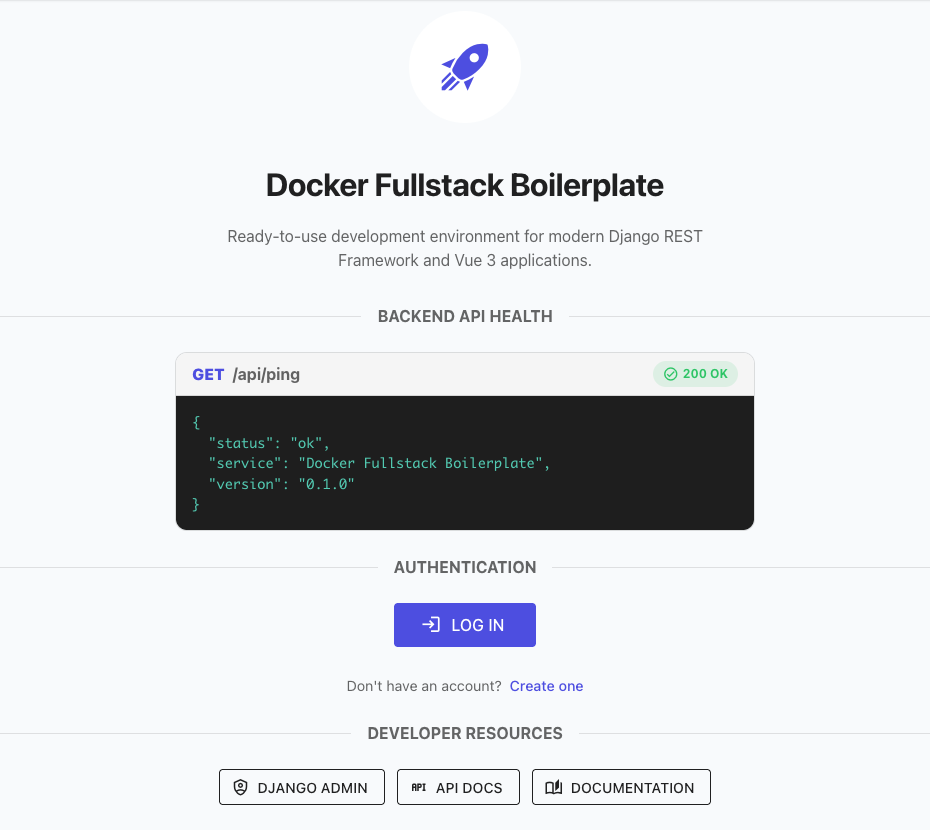
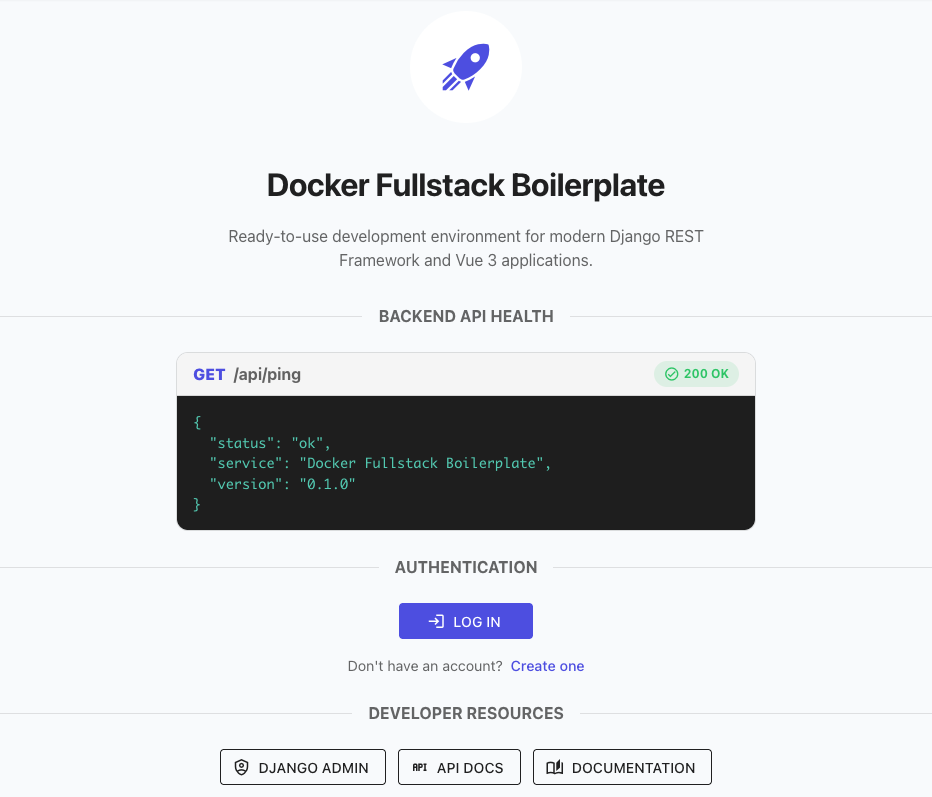
style(frontend): fix font, colors and margins in menus
- new project home image

diff --git a/frontend/src/components/layout/AppDrawer.vue b/frontend/src/components/layout/AppDrawer.vue
@@ -1,20 +1,25 @@
 <template>
-  <v-navigation-drawer v-model:rail="uiStore.drawerRail" :rail-width="APP_DRAWER_RAIL_WIDTH" permanent>
+  <v-navigation-drawer
+    v-model:rail="uiStore.drawerRail"
+    :rail-width="APP_DRAWER_RAIL_WIDTH"
+    permanent
+    class="app-drawer border-e"
+  >
     <div class="drawer-header" :class="{ rail: uiStore.drawerRail }">
       <v-btn
         :icon="uiStore.drawerRail ? 'mdi-chevron-right' : 'mdi-chevron-left'"
         variant="text"
         density="comfortable"
+        color="primary"
         @click="uiStore.toggleDrawerRail()"
       />
     </div>
 
-    <v-list density="comfortable" class="py-2">
+    <v-list density="comfortable" nav class="px-2 py-0">
       <v-tooltip
         v-for="item in items"
         :key="item.to.name"
         :text="item.title"
-        :nav="!uiStore.drawerRail"
         location="right"
         :disabled="!uiStore.drawerRail"
       >
@@ -23,11 +28,12 @@
             v-bind="props"
             :to="item.to"
             :title="uiStore.drawerRail ? undefined : item.title"
-            class="mx-2 mb-1"
             rounded="lg"
+            color="primary"
+            class="mb-1 drawer-item"
           >
             <template #prepend>
-              <v-icon :icon="item.icon" :size="APP_DRAWER_ICON_SIZE" />
+              <v-icon :icon="item.icon" size="20" class="drawer-icon" />
             </template>
           </v-list-item>
         </template>
@@ -37,7 +43,7 @@
 </template>
 
 <script setup>
-import { APP_DRAWER_ICON_SIZE, APP_DRAWER_RAIL_WIDTH } from '@/config/layout'
+import { APP_DRAWER_RAIL_WIDTH } from '@/config/layout'
 import { useUiStore } from '@/stores/ui'
 
 defineProps({
@@ -53,34 +59,44 @@ const uiStore = useUiStore()
 <style scoped>
 .drawer-header {
   display: flex;
+  align-items: center;
   justify-content: flex-end;
-  padding: 12px 8px;
-}
+  padding: 12px 12px 8px 12px;
 
-.drawer-header.rail {
-  justify-content: center;
+  &.rail {
+    justify-content: center;
+    padding-inline: 0;
+  }
 }
 
 :deep(.v-list-item-title) {
-  font-size: 0.95rem;
-  font-weight: 500;
-  color: rgb(var(--v-theme-on-surface));
+  font-size: 0.875rem !important;
+  font-weight: 500 !important;
+  letter-spacing: -0.01em !important;
+}
+
+:deep(.v-list-item__prepend) {
+  margin-inline-end: 12px !important;
 }
 
 :deep(.v-list-item) {
-  padding-right: 0;
-  transition: all 0.2s ease;
-}
-
-:deep(.v-list-item__prepend > .v-icon) {
-  font-size: 20px;
-}
-
-:deep(.v-navigation-drawer--rail .v-list-item__prepend > .v-icon) {
-  margin-inline: 0;
+  min-height: 40px !important;
+  padding-inline-start: 12px !important;
+  padding-inline-end: 12px !important;
 }
 
 :deep(.v-navigation-drawer--rail .v-list-item) {
-  padding-inline: 0;
+  padding-inline-start: 0 !important;
+  padding-inline-end: 0 !important;
+  display: flex !important;
+  justify-content: center !important;
+}
+
+:deep(.v-navigation-drawer--rail .v-list-item__prepend) {
+  margin-inline-end: 0 !important;
+}
+
+:deep(.v-list-item--active) {
+  font-weight: 600;
 }
 </style>

diff --git a/frontend/src/components/layout/AppHeader.vue b/frontend/src/components/layout/AppHeader.vue
@@ -25,17 +25,28 @@
           </div>
         </div>
 
-        <v-list density="comfortable" nav>
-          <template v-for="item in headerMenu" :key="item.title">
-            <v-list-item :to="item.to" :prepend-icon="item.icon" class="mt-0">
-              <v-list-item-title class="text-body-1 font-weight-bold ps-6 mt-1">
-                {{ item.title }}
-              </v-list-item-title>
-            </v-list-item>
-            <v-divider />
-          </template>
-          <v-list-item prepend-icon="mdi-logout" class="mt-0" @click="logout">
-            <v-list-item-title class="text-body-1 ps-6 mt-1"> Log out </v-list-item-title>
+        <v-list density="comfortable" nav class="px-2 pt-0">
+          <v-list-item
+            v-for="item in headerMenu"
+            :key="item.title"
+            :to="item.to"
+            rounded="lg"
+            color="primary"
+            class="my-0"
+          >
+            <template #prepend>
+              <v-icon :icon="item.icon" size="20" class="mr-5" />
+            </template>
+            <v-list-item-title class="text-body-2 font-weight-medium">
+              {{ item.title }}
+            </v-list-item-title>
+          </v-list-item>
+          <v-divider class="my-1" />
+          <v-list-item rounded="lg" @click="logout">
+            <template #prepend>
+              <v-icon icon="mdi-logout" size="20" class="mr-5" />
+            </template>
+            <v-list-item-title class="text-body-2 font-weight-medium"> Log out </v-list-item-title>
           </v-list-item>
         </v-list>
       </v-card>
@@ -72,13 +83,11 @@ async function logout() {
   font-weight: 600;
 }
 
-:deep(.v-list-item) {
-  border-radius: 0;
+:deep(.v-list-item__prepend) {
+  margin-inline-end: 0 !important;
 }
 
 :deep(.v-list-item-title) {
-  font-size: 0.85rem;
-  font-weight: 500;
-  min-height: 20px !important;
+  font-size: 0.875rem !important;
 }
 </style>

diff --git a/frontend/src/views/auth/ResendActivationView.vue b/frontend/src/views/auth/ResendActivationView.vue
@@ -6,14 +6,12 @@
 
         <v-card v-else variant="outlined" class="auth-card">
           <v-card-text class="pa-8">
-            <!-- Back Button -->
             <div class="mb-6">
               <v-btn prepend-icon="mdi-arrow-left" variant="text" to="/login" class="px-0 font-weight-bold">
                 Back
               </v-btn>
             </div>
 
-            <!-- Header Section -->
             <div class="text-center mb-8">
               <v-avatar color="primary-lighten-5" size="64" class="mb-4">
                 <v-icon icon="mdi-email-alert-outline" color="primary" size="32" />
@@ -26,7 +24,6 @@
               </p>
             </div>
 
-            <!-- Error Alert -->
             <v-alert
               v-if="error"
               type="error"
@@ -38,7 +35,6 @@
               {{ error }}
             </v-alert>
 
-            <!-- Form -->
             <v-form ref="formRef" @submit.prevent="submit">
               <div class="mb-6">
                 <label class="font-weight-bold text-uppercase text-medium-emphasis mb-1 d-block"> Email </label>
@@ -56,7 +52,6 @@
                 />
               </div>
 
-              <!-- Submit Button -->
               <v-btn
                 type="submit"
                 color="primary"

diff --git a/frontend/src/views/base/HomeView.vue b/frontend/src/views/base/HomeView.vue
@@ -2,7 +2,6 @@
   <v-container fluid class="fill-height py-10">
     <v-row align="center" justify="center" class="fill-height">
       <v-col cols="12" md="8" lg="6" class="mx-auto">
-        <!-- Hero Header -->
         <div class="text-center mb-8">
           <v-avatar color="primary-lighten-5" size="112" class="mb-4">
             <v-icon icon="mdi-rocket-launch" class="rocket-icon" color="primary" size="56" />
@@ -74,14 +73,7 @@
           </div>
 
           <div class="text-center mb-6">
-            <v-btn
-              color="primary"
-              elevation="0"
-              size="large"
-              prepend-icon="mdi-login"
-              to="/login"
-              class="px-8 font-weight-bold"
-            >
+            <v-btn color="primary" elevation="0" prepend-icon="mdi-login" to="/login" class="px-8 font-weight-bold">
               Log In
             </v-btn>
             <div>

diff --git a/frontend/src/views/account/PersonalInfoView.vue b/frontend/src/views/account/PersonalInfoView.vue
@@ -40,12 +40,10 @@
                 </v-avatar>
               </template>
 
-              <!-- Label on top: Muted, small, structured -->
               <v-list-item-title class="font-weight-bold text-uppercase text-medium-emphasis mb-1">
                 Name
               </v-list-item-title>
 
-              <!-- Value on bottom: Large, crisp, prominent -->
               <v-list-item-subtitle
                 class="text-body-1 text-high-emphasis font-weight-medium"
                 :class="{ 'text-medium-emphasis': !fullName }"

diff --git a/frontend/src/views/base/NotFoundView.vue b/frontend/src/views/base/NotFoundView.vue
@@ -2,7 +2,6 @@
   <v-container class="fill-height py-10" fluid>
     <v-row align="center" justify="center">
       <v-col cols="12" class="text-center">
-        <!-- Icon Bubble -->
         <v-avatar color="primary-lighten-5" size="112" class="mb-2">
           <v-icon color="primary" icon="mdi-magnify" size="56" class="magnify-icon" />
         </v-avatar>

diff --git a/frontend/src/navigation/header-menu.js b/frontend/src/navigation/header-menu.js
@@ -5,7 +5,7 @@ export default [
     to: { name: 'account-profile' },
   },
   {
-    title: 'Subscription',
+    title: 'My subscription',
     icon: 'mdi-credit-card-outline',
     to: { name: 'account-subscription' },
   },

diff --git a/frontend/src/views/auth/LoginView.vue b/frontend/src/views/auth/LoginView.vue
@@ -76,7 +76,6 @@
                 />
               </div>
 
-              <!-- Submit Button -->
               <v-btn
                 type="submit"
                 color="primary"
